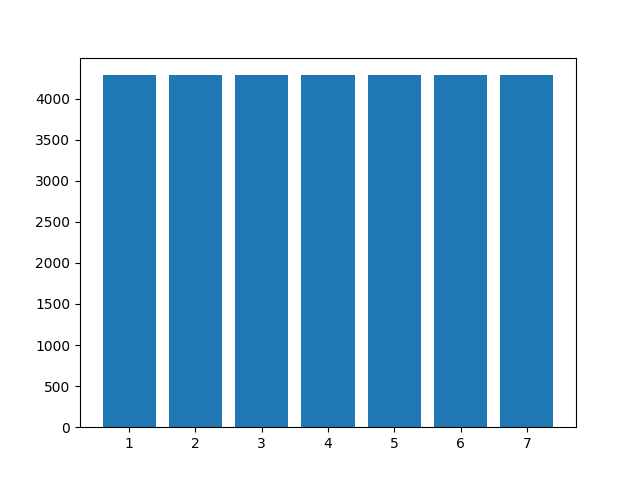
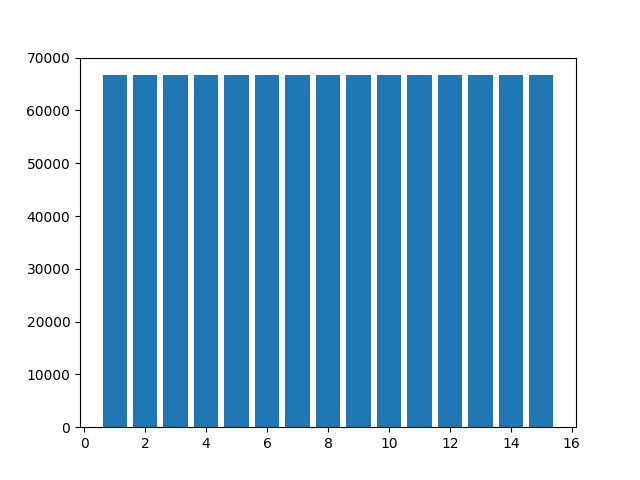
Изменения1

diff --git a/main.py b/main.py
@@ -2,13 +2,13 @@
 from sympy import *
 
 k, T, C, L = symbols("k T C L ")
-C_ost = 30000
+C_ost = 1000000
 Am_lst_5 = []
 C_ost_lst_5 = []
-for i in range(7):
+for i in range(15):
     Am = (C - L) / T
-    C_ost -= Am.subs({C: 30000, T: 7, L: 0})
-    Am_lst_5.append(round(Am.subs({C: 30000, T: 7, L: 0}), 2)) #Что это означает? Ответ от Лысенковой: это округление значения Am до двух знаков после запятой и добавление в список Am_lst_5. Гринина А.: верно
+    C_ost -= Am.subs({C: 1000000, T: 15, L: 0})
+    Am_lst_5.append(round(Am.subs({C: 1000000, T: 15, L: 0}), 2)) #Что это означает? Ответ от Лысенковой: это округление значения Am до двух знаков после запятой и добавление в список Am_lst_5. Гринина А.: верно
     C_ost_lst_5.append(round(C_ost, 2))
 print("Индивидуальное задание: расчёт линейным способом")
 print("Am_lst_5:", Am_lst_5)
@@ -16,13 +16,13 @@ print("C_ost_lst_5:", C_ost_lst_5)
 
 # Способ уменьшаемого остатка
 Aj = 0
-C_ost = 30000
+C_ost = 1000000
 Am_lst_6 = []
 C_ost_lst_6 = []
-for i in range(7):
+for i in range(15):
     Am = k * 1 / T * (C - Aj)
-    C_ost -= Am.subs({C: 30000, T: 7, k: 2})
-    Am_lst_6.append(round(Am.subs({C: 30000, T: 7, k: 2}), 2))
+    C_ost -= Am.subs({C: 1000000, T: 15, k: 2})
+    Am_lst_6.append(round(Am.subs({C: 1000000, T: 15, k: 2}), 2))
     Aj += Am
     C_ost_lst_6.append(round(C_ost, 2))
 print("Индивидуальное задание: расчёт способом уменьшаемого остатка")
@@ -32,7 +32,7 @@ print("C_ost_lst_6:", C_ost_lst_6)
 # табличное представление
 import pandas as pd
 
-Y = range(1, 8)
+Y = range(1, 16)
 table1 = list(zip(Y, C_ost_lst_5, Am_lst_5))
 table2 = list(zip(Y, C_ost_lst_6, Am_lst_6)) #Что это означает? Ответ от Лысенковой: это объединение списков в кортежи и создание списка кортежей. Гринина А.: верно
 tfame = pd.DataFrame(table1, columns=["Y", "C_ost_lst_5", "Am_lst_5"]) 
@@ -51,8 +51,8 @@ plt.plot(tfame2["Y"], tfame2["C_ost_lst_6"], label="Am_6")
 plt.savefig("chart8.png")
 
 vals = Am_lst_5
-labels = [str(x) for x in range(1, 8)]
-explode = (0.15, 0.15, 0.15, 0.15, 0.15, 0.15, 0.15) #Что это означает? Ответ от Лысенковой: это расстояние между фрагментами круговой диаграммы. Гринина А.: верно
+labels = [str(x) for x in range(1, 16)]
+explode = (0.15, 0.15, 0.15, 0.15, 0.15, 0.15, 0.15, 0.15, 0.15, 0.15, 0.15, 0.15, 0.15, 0.15, 0.15) #Что это означает? Ответ от Лысенковой: это расстояние между фрагментами круговой диаграммы. Гринина А.: верно
 fig, ax = plt.subplots()
 ax.pie(
     vals,
@@ -67,8 +67,8 @@ ax.axis("equal")
 plt.savefig("chart9.png")
 
 vals = Am_lst_6
-labels = [str(x) for x in range(1, 8)]
-explode = (0.15, 0.15, 0.15, 0.15, 0.15, 0.15, 0.15)
+labels = [str(x) for x in range(1, 16)]
+explode = (0.15, 0.15, 0.15, 0.15, 0.15, 0.15, 0.15, 0.15, 0.15, 0.15, 0.15, 0.15, 0.15, 0.15, 0.15)
 fig, ax = plt.subplots()
 ax.pie(
     vals,
@@ -103,10 +103,10 @@ print(S2_LYSENKOVA)
 S3_LYSENKOVA = os.environ["S3_LYSENKOVA"]
 print(S3_LYSENKOVA)
 
-# Задание 2 (проверила Алеся) вариант 3
-# Проверила Вотинцева А.С.: оценка 5(все верно)
+# Задание 2 (проверила Алеся) вариант 3, Проверила Вотинцева А.С.: оценка 5(все верно)
 #Задание 3: 
 #Задание 4: выполняла с Лысенковой М., все ответы правильные, оценка 5
 #Задание 5: создала скрипт оболочки Grinina1.sh
 #Задание 6: связала аккаунт на GitHub с Replit
+#Задание 7: 
 
